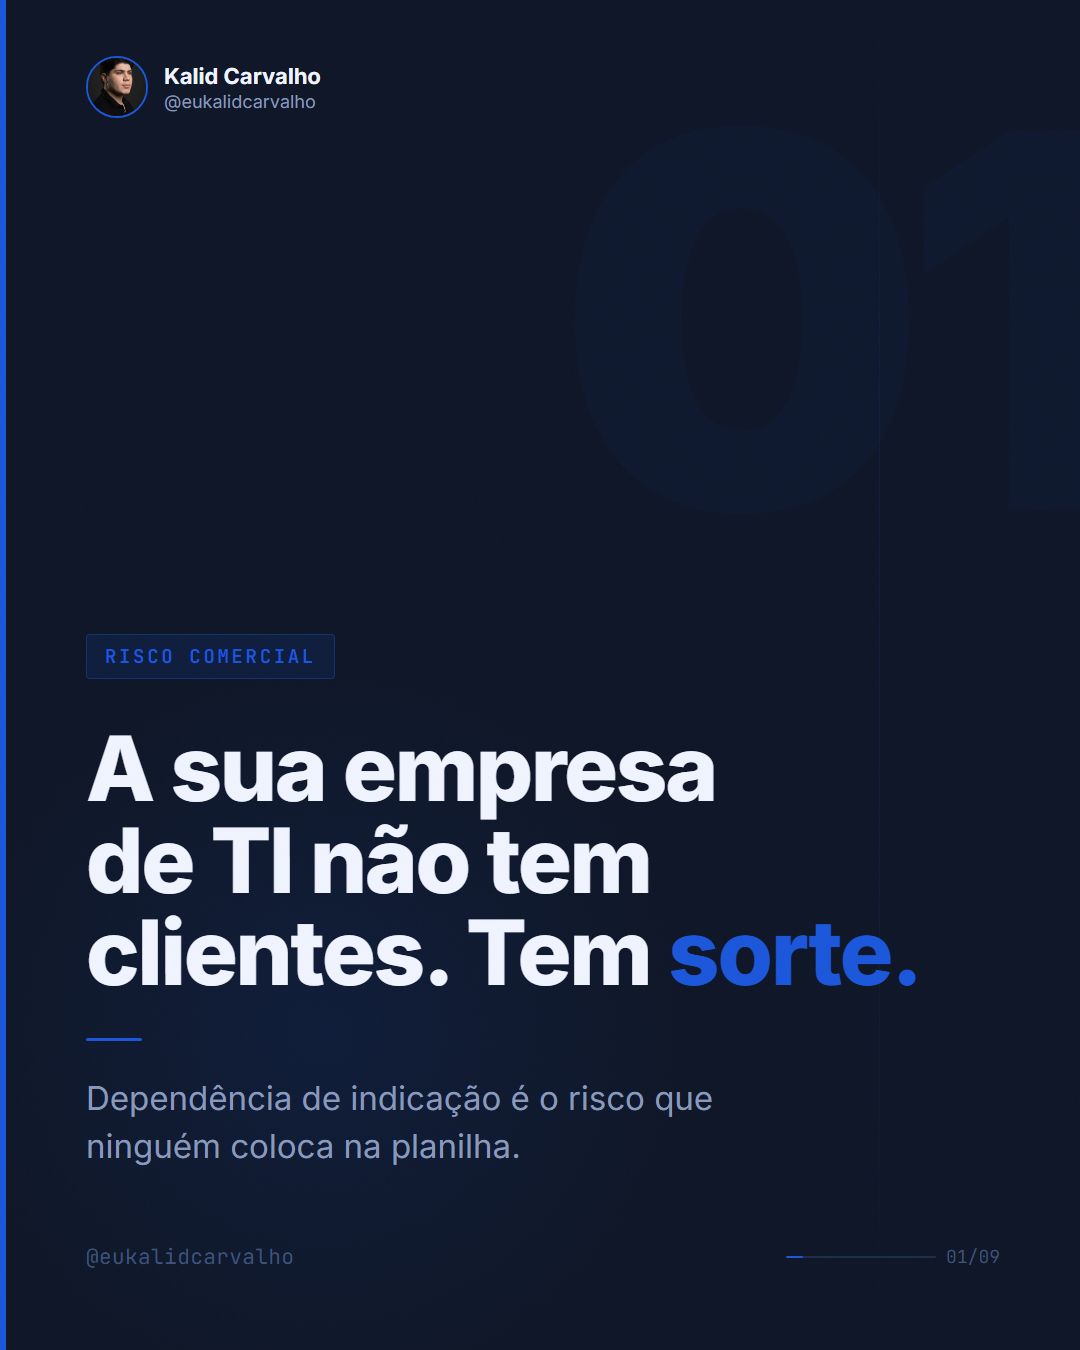
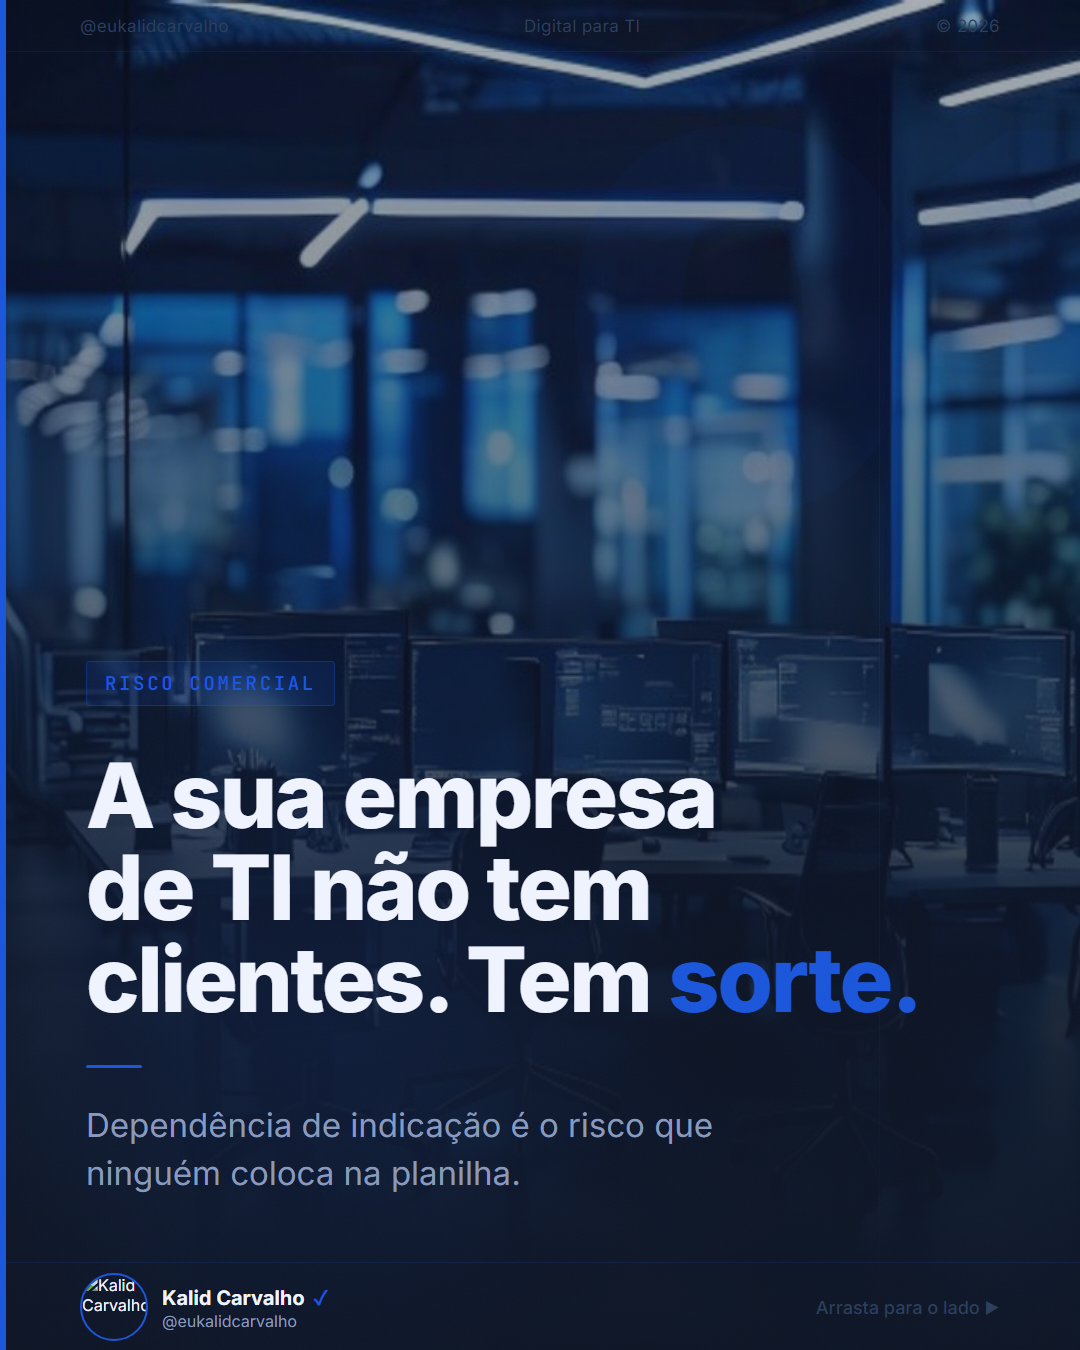
auto-sync: 2026-04-16 14:53

diff --git a/conteudo/eukalidcarvalho/carrosseis/2026-04-16/ti-indicacao/instagram/slide-01.html b/conteudo/eukalidcarvalho/carrosseis/2026-04-16/ti-indicacao/instagram/slide-01.html
@@ -16,6 +16,25 @@
       overflow: hidden;
     }
 
+    /* Background image */
+    .capa-bg {
+      position: absolute;
+      inset: 0;
+      width: 100%;
+      height: 100%;
+      object-fit: cover;
+      object-position: center center;
+      z-index: 0;
+    }
+
+    /* Gradient overlay sobre a foto */
+    .capa-overlay {
+      position: absolute;
+      inset: 0;
+      background: linear-gradient(180deg, rgba(13,21,38,0.35) 0%, rgba(13,21,38,0.55) 40%, rgba(13,21,38,0.92) 75%, #0D1526 100%);
+      z-index: 1;
+    }
+
     /* Noise overlay */
     body::after {
       content: '';
@@ -214,6 +233,9 @@
   </style>
 </head>
 <body>
+  <img class="capa-bg" src="../bg-capa.png" alt="">
+  <div class="capa-overlay"></div>
+
   <div class="top-header">
     <span>@eukalidcarvalho</span>
     <span>Digital para TI</span>
